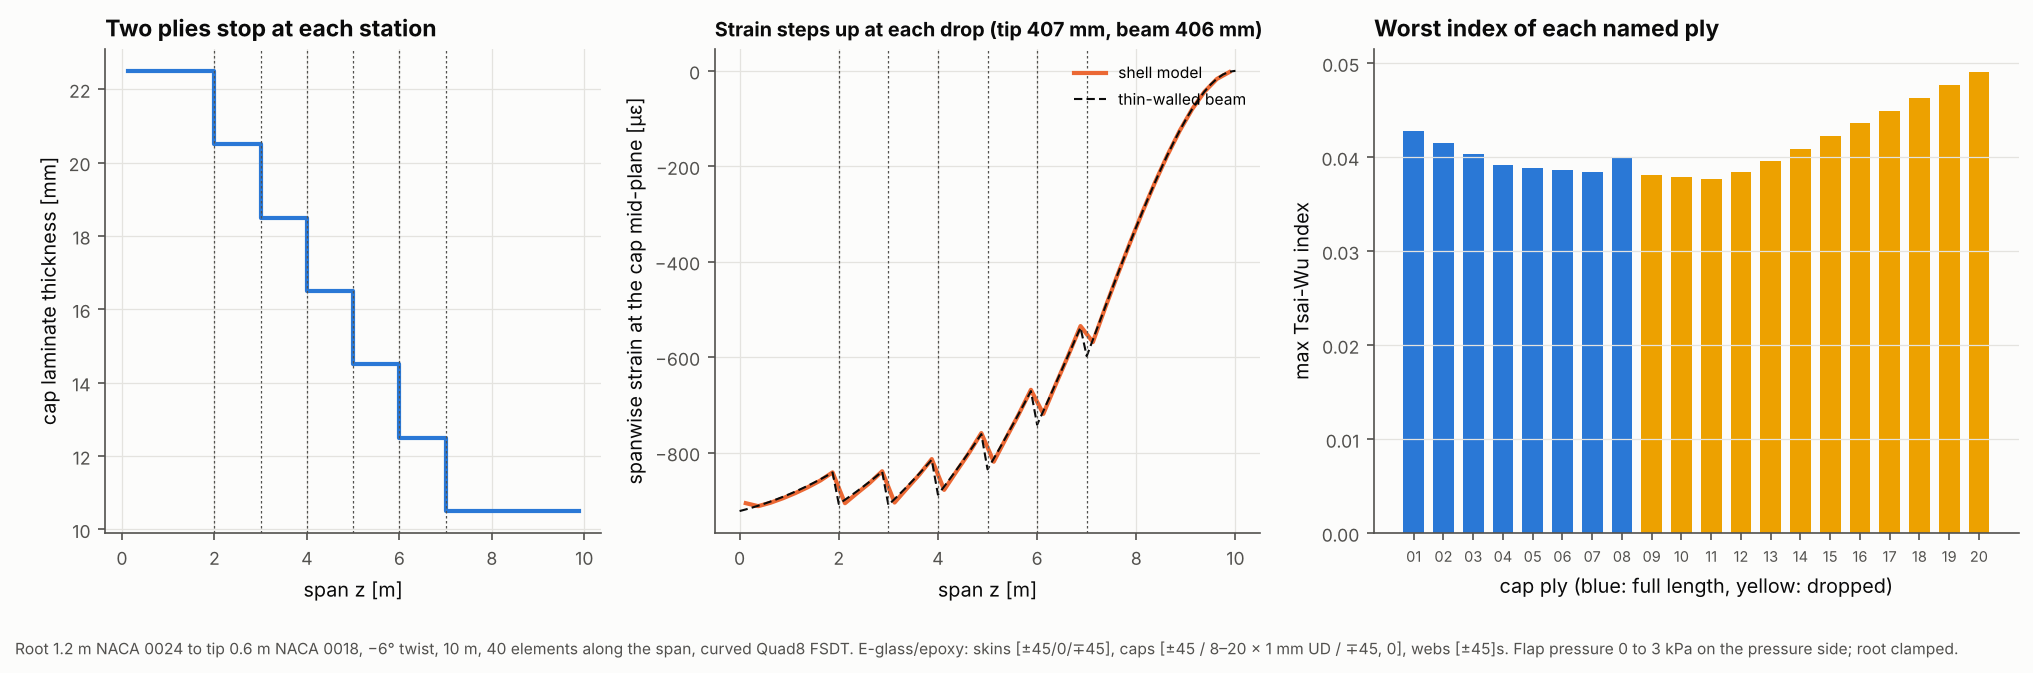
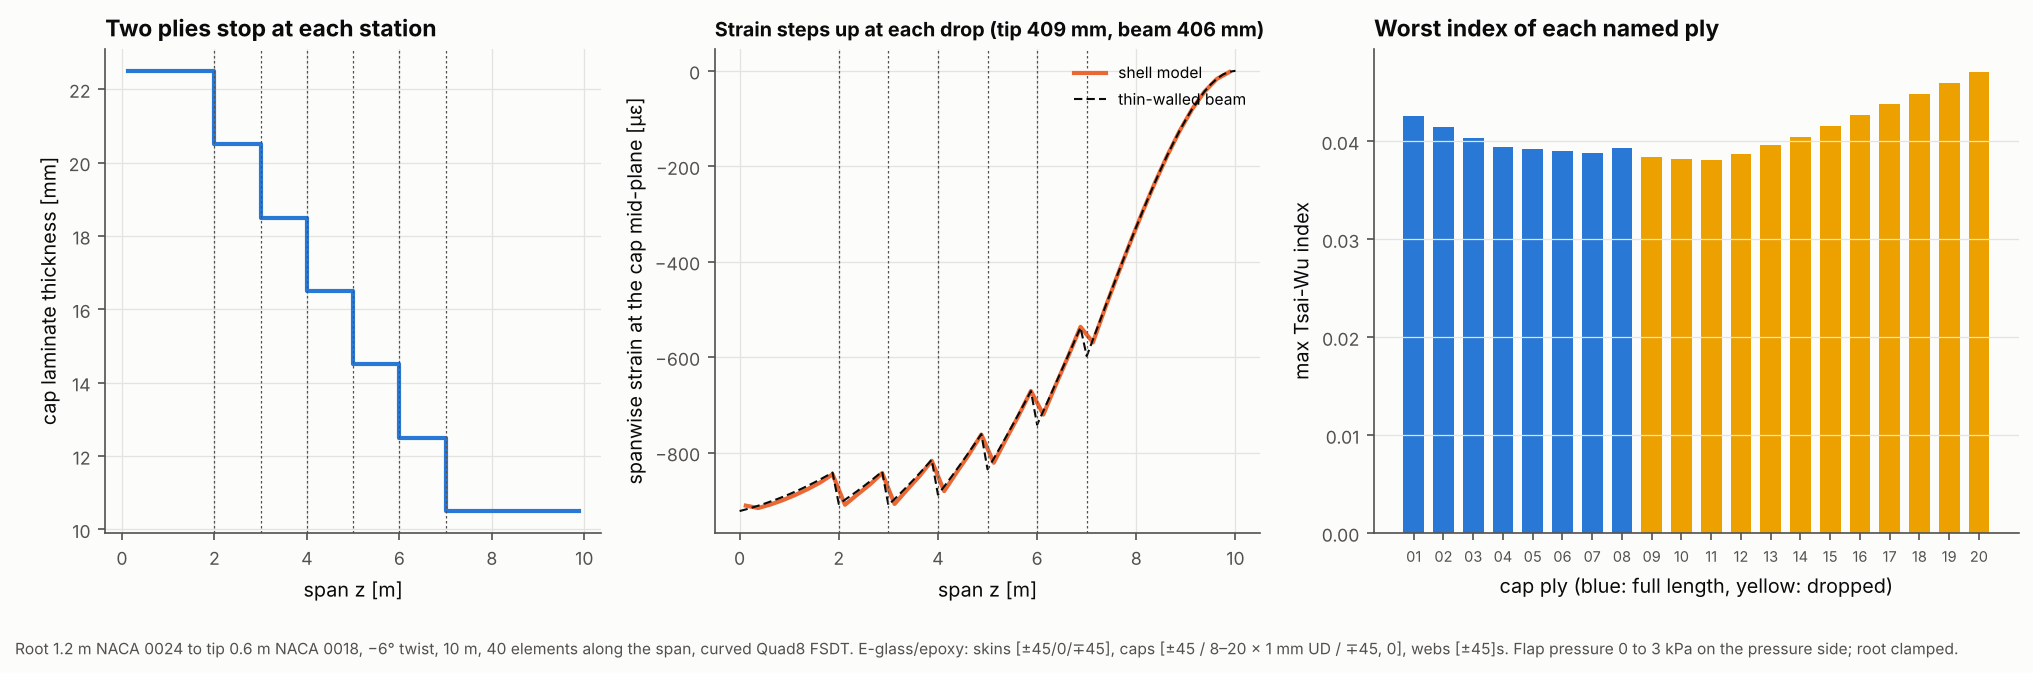
Re-run blade examples on the mid-surface default
Examples 20, 21, 23 and 25 re-run with skins on their mid-surface; READMEs
updated. Example 21 moves the blade again after its ply book. The IEA helper
merges sector edges closer than 0.3% of the chord: 5 mm slivers beside the
95 mm caps turned inside out in CalculiX's shell expansion.

diff --git a/examples/_shared/iea15mw.py b/examples/_shared/iea15mw.py
@@ -82,6 +82,11 @@ def airfoil(st):
     return Airfoil(pts, f"IEA 15 MW r = {st['r']:.1f} m")
 
 
+MERGE_CHORD = 0.003  # sector boundaries closer than this (in chords) are merged: slivers between
+# them, much narrower than the skin is thick, turn inside out when CalculiX expands
+# the mid-surface shells into bricks
+
+
 def build_segment(st, length, n_span, h_perimeter, element, tip_chord=None, twist=(0.0, 0.0), **builder_options):
     """A shell segment with the section of station ``st``, meshed on its PreComp sector boundaries.
 
@@ -99,7 +104,7 @@ def build_segment(st, length, n_span, h_perimeter, element, tip_chord=None, twis
     edges = np.unique(np.round(np.concatenate([st["upper"]["loc"], st["lower"]["loc"], [x for x, _ in webs_in]]), 6))
     bounds = [edges[0]]
     for v in edges[1:]:
-        if v - bounds[-1] > 2e-4:
+        if v - bounds[-1] > MERGE_CHORD:
             bounds.append(v)
     bounds[-1] = 1.0
 

diff --git a/examples/25_blade_calculix_crosscheck/README.md b/examples/25_blade_calculix_crosscheck/README.md
@@ -13,8 +13,8 @@ goes to both solvers, once meshed with Quad4 shells and once with curved Quad8.
 |---|---|
 | Segment | IEA 15 MW blade from r = 64.5 m to r = 84.7 m (20.2 m), chord 4.07 m to 3.27 m, published twist (1.5° to −0.4°) |
 | Section | The r = 64.5 m station from example 24: FFA-W3 blend about 27% thick, 89 mm carbon spar caps (18–40% chord), 27 mm foam-cored glass panels, 30 mm glass UD trailing-edge reinforcement, two foam-cored webs, a 56 mm flatback trailing edge closed by a web |
-| Layup | The same along the segment (the r = 64.5 m station's sectors and laminae), skins on the outer mould line |
-| Meshes | Quad4 FSDT, 40 along the span (4840 elements); curved Quad8, 20 along the span (1460 elements) |
+| Layup | The same along the segment (the r = 64.5 m station's sectors and laminae), laid inward from the outer mould line; skins meshed on their mid-surface (the default) |
+| Meshes | Quad4 FSDT, 40 along the span (4760 elements); curved Quad8, 20 along the span (1380 elements). Sector edges closer than 0.3% of the chord are merged (see below) |
 | Support | Root section clamped |
 | Loads | Suction 1.7 kPa and pressure 0.8 kPa at the root, both rising 30% to the tip (about 10 kN/m flapwise); edgewise gravity; outboard shear at the tip, 250 kN flapwise on the web nodes and 60 kN edgewise on the skin nodes |
 
@@ -54,7 +54,7 @@ Without `ccx` the script says so and stops. It takes about two minutes.
    CalculiX accepts composite shells only as S8R, so the Quad4 mesh is promoted to
    S8R with straight-sided mid-side nodes, and the curved Quad8 mesh is written
    node for node. CalculiX then expands every S8R into a 20-node brick with the
-   plies inside it, so it treats the offset skins, the 95 mm thick caps, the
+   plies inside it, so it treats the skins, the 95 mm thick caps, the
    web-to-skin joints and the flatback corners in 3D.
 
 4. **Comparing.** Section deflection and twist come from the node translations
@@ -66,25 +66,30 @@ Without `ccx` the script says so and stops. It takes about two minutes.
 
 | | native | CalculiX S8R | difference |
 |---|---|---|---|
-| Tip flapwise deflection, Quad4 mesh | 301.5 mm | 304.6 mm | −1.0% |
-| Tip edgewise deflection, Quad4 mesh | −24.3 mm | −24.4 mm | −0.4% |
-| Tip twist, Quad4 mesh | 0.801° | 0.814° | −1.6% |
-| Tip flapwise deflection, curved Quad8 mesh | 301.1 mm | 304.1 mm | −1.0% |
-| Tip twist, curved Quad8 mesh | 0.795° | 0.791° | 0.5% |
-| Flapwise displacement, every node (Quad4 mesh) | | | max 1.2% of the peak |
-| Fibre stress in the suction cap at a quarter span | | | max 5.9% of the peak |
+| Tip flapwise deflection, Quad4 mesh | 300.3 mm | 299.8 mm | 0.2% |
+| Tip edgewise deflection, Quad4 mesh | −25.2 mm | −25.2 mm | 0.0% |
+| Tip twist, Quad4 mesh | 0.793° | 0.790° | 0.4% |
+| Tip flapwise deflection, curved Quad8 mesh | 300.2 mm | 299.5 mm | 0.2% |
+| Tip twist, curved Quad8 mesh | 0.768° | 0.759° | 1.2% |
+| Flapwise displacement, every node (Quad4 mesh) | | | max 0.3% of the peak |
+| Fibre stress in the suction cap at a quarter span | | | max 5.4% of the peak |
 | σ22 and τ12 in the sandwich panel at a quarter span | | | max 1.0% of the peak |
 
-Runtimes on one core: native 20 s, CalculiX 15 s for the Quad4 model (14,600 S8R
+Runtimes on one core: native 31 s, CalculiX 25 s for the Quad4 model (14,356 S8R
 nodes after promotion).
+
+With the skins on their mid-surface, the two solvers agree more closely in
+deflection than they did with the skins on the mould line and offset (the
+earlier default: native 1.0% below CalculiX in flap deflection and 1.6% in Quad4
+twist, 1.2% of the peak over all nodes).
 
 - **Top left:** flapwise and edgewise deflection along the segment; the two
   solvers lie on top of each other for both meshes.
 - **Top right:** twist. The flap load acts away from the shear centre and the
   segment twists by 0.8° over its length; the kink near the tip is where the tip
   forces go in on the web and skin nodes (the same nodal forces in both solvers).
-  Native Quad4 and curved Quad8 agree with each other; CalculiX on the promoted
-  Quad4 mesh (straight-sided S8R) twists 3% more than on the curved mesh.
+  The Quad4 mesh twists 3–4% more than the curved Quad8 mesh in both solvers
+  (the curved mesh is twice as coarse around the section).
 - **Bottom left:** fibre stress in the carbon of both caps, about −90 MPa
   (suction side, compression) and +90 MPa at the root, falling to zero at the tip.
   The CalculiX values sit on the native curves.
@@ -107,6 +112,16 @@ coefficient on the dependent side of an equation") and which turned some
 expanded bricks inside out at the flatback corners. Body loads are now written as
 `*DLOAD, GRAV`, which CalculiX integrates over the expanded bricks, so the
 offsets and ply densities are included directly.
+
+Moving the skins to their mid-surface exposed a limit of CalculiX's shell
+expansion. The PreComp sectors leave a few slivers, elements 5 mm wide at the
+spar-cap edges where the sector edges on the two surfaces nearly coincide. Next
+to a 95 mm cap whose mid-surface steps inwards, CalculiX turned their expanded
+bricks inside out ("nonpositive jacobian"). `_shared/iea15mw.py` now merges
+sector edges closer than 0.3% of the chord (12 mm here), which removes them. Many
+small residual offsets left by the mid-surface smoothing also made CalculiX run out
+of expansion nodes ("increase nk_"); `BladeMesh.to_mid_surface` now drops
+residual offsets under 5% of the laminate thickness.
 
 Clamped shell edges keep their rotation constraints. Without them CalculiX fixes
 only the mid-surface node of each expanded shell node and the edge becomes a

diff --git a/examples/26_mid_surface_meshing/README.md b/examples/26_mid_surface_meshing/README.md
@@ -1,13 +1,14 @@
 # 26 · Mould line with offsets, or mid-surface: two ways to mesh blade skins
 
-`BladeBuilder` meshes the skins on the outer mould line (OML) by default and
-offsets each laminate inward by half its thickness, as the laminate grows from the
-mould. Example 24 found that flat shells (Quad4, flat Quad8) then lose torsional
-stiffness in thick closed sections. `mesh_surface="mid"` is the other way: the skin
-nodes move onto the laminates' mid-surface and the offsets go. This example runs
+A blade skin is laid up inward from the outer mould line (OML). There are two ways
+to mesh it. `mesh_surface="outer"` keeps the nodes on the mould line and offsets
+each laminate inward by half its thickness. Flat shells (Quad4, flat Quad8) then
+lose torsional stiffness in thick closed sections. `mesh_surface="mid"` moves the
+skin nodes onto the laminates' mid-surface and the offsets go. This example runs
 both on a thick tube with a closed-form answer, and on the six IEA 15 MW stations of
 example 24 against PreComp and the published data. Each case runs with Quad4, flat
-Quad8 and curved Quad8.
+Quad8 and curved Quad8. What it found made the mid-surface the `BladeBuilder`
+default.
 
 ![A section meshed on the mould line and on the mid-surface, with close-ups of a spar-cap edge and the trailing edge](figures/mid_surface_section.png)
 
@@ -18,15 +19,16 @@ Quad8 and curved Quad8.
 ## How the mid-surface is made
 
 ```python
-blade = BladeBuilder(stations, regions, webs, n_span=32, mesh_surface="mid").build(laminates, FSDTModel())
+blade = BladeBuilder(stations, regions, webs, n_span=32).build(laminates, FSDTModel())  # mesh_surface="mid"
 
-# or after a Layup with ply drops, from a mould-line mesh:
+# after a Layup with ply drops (laid from the mould line), move it again:
 Layup(plies, reference="top").apply(blade.mesh, blade.element_sets, element_ids=blade.elements("spar_cap"))
 blade = blade.to_mid_surface()
 ```
 
-1. **Shift.** Every skin element knows where its plies are: its laminate offset
-   (−t/2 for a skin on the mould line). The shift of each skin node is the
+1. **Shift.** The builder first meshes the mould line, where every skin element
+   knows where its plies are: its laminate offset (−t/2 for a skin on the mould
+   line). The shift of each skin node is the
    area-weighted mean offset of the skin elements around it.
 2. **Smoothing.** The shifts are averaged along the skin with a hat kernel over
    paths shorter than `mid_surface_smoothing`. By default that is two of the
@@ -38,7 +40,11 @@ blade = blade.to_mid_surface()
    in their planes.
 4. **Offsets.** Each element keeps whatever offset still separates its plies from
    the moved surface. That is zero away from thickness changes, and small in the
-   blends, so every ply stays where it was through the thickness.
+   blends, so every ply stays where it was through the thickness. Residuals under
+   5% of the thickness are dropped: they only round off the smoothing, and many
+   slightly different offsets make CalculiX's shell expansion fail (example 25).
+   After a `Layup`, `to_mid_surface()` repeats steps 1–5 from the stored mould-line
+   mesh, with the new plies.
 5. **Webs.** The web nodes are re-spaced between their two joints, so the webs run
    between the skins' mid-surfaces.
 
@@ -136,7 +142,7 @@ GJ / PreComp for each element:
 
 ## Which to use
 
-| | mould line + offset (default) | mid-surface |
+| | mould line + offset | mid-surface (default) |
 |---|---|---|
 | Torsion of thick sections, flat elements | 20–35% low | exact |
 | Torsion, curved Quad8 | 2–5% low at the root | exact |
@@ -145,15 +151,15 @@ GJ / PreComp for each element:
 | Skin stresses at the mould surface | at the reference surface | through the ply stack as usual |
 | Cost | | the same mesh |
 
-Use the mid-surface for section properties and torsion, above all with Quad4. Keep
-the mould line where the outer geometry matters, for example when comparing with a
-CAD surface. To match PreComp like for like (example 24), the mould line is the
-closer of the two, because PreComp makes the same thin-wall area assumption.
+The mid-surface is the default: it is right for section properties and torsion
+with every element. Choose `mesh_surface="outer"` where the outer geometry matters,
+for example when comparing with a CAD surface, or to match PreComp's EA and mass
+exactly, since PreComp makes the same mould-line area assumption.
 
 ## Things to try
 
 - Run the stations with `mid_surface_smoothing=0.05` to see the cap edges sharpen.
-- Apply a spar-cap ply-drop `Layup` (example 21) to a mould-line blade, then call
-  `blade.to_mid_surface()`. The cap's mid-surface steps up at each drop.
+- Apply a spar-cap ply-drop `Layup` (example 21), then call
+  `blade = blade.to_mid_surface()`. The cap's mid-surface steps up at each drop.
 - Refine flat Quad8 around the section (`ELEMENTS["quad8"]`) and watch it close on
   curved Quad8.

diff --git a/examples/20_blade_beam_properties/README.md b/examples/20_blade_beam_properties/README.md
@@ -81,34 +81,43 @@ At θ = 0 (all about the pitch axis, except EI edge about the tension centre):
 
 | | Shell model | Thin-walled beam | PreComp |
 |---|---|---|---|
-| EA [N] | 9.798e8 | 9.798e8 | 9.792e8 |
-| EI flap [N m²] | 1.158e7 | 1.158e7 | 1.157e7 |
-| EI edge [N m²] | 2.136e7 | 2.136e7 | 2.126e7 |
-| GJ [N m²] | 1.700e6 | 1.727e6 | 1.109e6 |
-| Tension centre aft of the pitch axis | 51.0 mm | 51.0 mm | 50.9 mm |
+| EA [N] | 9.763e8 | 9.798e8 | 9.792e8 |
+| EI flap [N m²] | 1.152e7 | 1.158e7 | 1.157e7 |
+| EI edge [N m²] | 2.122e7 | 2.136e7 | 2.126e7 |
+| GJ [N m²] | 1.730e6 | 1.727e6 | 1.109e6 |
+| Tension centre aft of the pitch axis | 51.1 mm | 51.0 mm | 50.9 mm |
 
 Over the cap-angle sweep:
 
 | θ | EI flap: shell / thin wall / PreComp [N m²] | GJ: shell / thin wall / PreComp [N m²] | Flap-twist coupling: shell / thin wall / PreComp |
 |---|---|---|---|
-| 0° | 1.158e7 / 1.158e7 / 1.157e7 | 1.700e6 / 1.727e6 / 1.109e6 | 0 / 0 / 0 |
-| 10° | 8.22e6 / 8.23e6 / 1.07e7 | 1.95e6 / 1.97e6 / 1.16e6 | −0.329 / −0.327 / −0.159 |
-| 20° | 4.52e6 / 4.53e6 / 7.82e6 | 2.16e6 / 2.18e6 / 1.19e6 | −0.401 / −0.401 / −0.159 |
-| 30° | 2.74e6 / 2.74e6 / 4.49e6 | 2.17e6 / 2.20e6 / 1.20e6 | −0.365 / −0.366 / −0.149 |
+| 0° | 1.152e7 / 1.158e7 / 1.157e7 | 1.730e6 / 1.727e6 / 1.109e6 | 0 / 0 / 0 |
+| 10° | 8.21e6 / 8.23e6 / 1.07e7 | 1.98e6 / 1.97e6 / 1.16e6 | −0.332 / −0.327 / −0.159 |
+| 20° | 4.52e6 / 4.53e6 / 7.82e6 | 2.20e6 / 2.18e6 / 1.19e6 | −0.405 / −0.401 / −0.159 |
+| 30° | 2.74e6 / 2.74e6 / 4.49e6 | 2.22e6 / 2.20e6 / 1.20e6 | −0.369 / −0.366 / −0.149 |
+
+The skins are meshed on their mid-surface (the `BladeBuilder` default). Thin-wall
+theory and PreComp take each wall's length on the outer mould line, which is a
+little longer than the mid-wall length, so they read EA and EI 0.4–0.7% above the
+shell model at 0°. With the skins left on the mould line and offset
+(`mesh_surface="outer"`), the shell model counts the same mould-line length and
+matches thin-wall EA and EI exactly, but its curved Quad8 facets then lose 1.6% of
+GJ (example 26).
 
 - **Left:** the section with its centres. The tension centre (51 mm aft of the
   pitch axis) sits where the carbon caps put it, the mass centre further aft
   (129 mm), pulled back by the long trailing-edge skin. The section weighs
-  17.5 kg/m. The shear centre lands within a millimetre of the pitch axis.
+  17.4 kg/m. The shear centre lands within a millimetre of the pitch axis.
 - **Middle:** turning the cap fibres costs axial and flap stiffness fast (EI
   flap falls to 0.39 of its 0° value at 20°) and gains torsional stiffness (GJ
   rises by about 27%). The shell model and thin-walled beam theory agree within
-  0.3% in EA and EI at every angle, and within 1.5% in GJ.
+  0.7% in EA and EI at every angle (the mould-line length above), and within 1% in
+  GJ.
 - **Right:** the bend-twist coupling coefficient S₁₄/√(S₁₁S₄₄). With +θ on one
   cap and −θ on the other, flap bending shears the two caps in opposite
   directions, and the closed section turns that into twist. The coupling peaks at
   about −0.40 near 20° and falls beyond as the caps lose stiffness. Shell and
-  thin-wall theory agree to the third decimal.
+  thin-wall theory agree within 1.5%.
 - **PreComp agrees at 0° in EA, EI and the tension centre (within 0.5%) but not
   in torsion or coupling.** Its GJ is 35% below the other two, and with off-axis
   caps it keeps far more flap stiffness (0.68 of the 0° value at 20°, against

diff --git a/examples/21_spar_cap_ply_drops/README.md b/examples/21_spar_cap_ply_drops/README.md
@@ -41,7 +41,8 @@ It takes about two and a half minutes, most of it writing the ply-by-ply VTK fil
    ```
 
    Skin normals point outwards and the skin laminates grow inwards from the outer
-   mould line (`skin_reference="outer"`). The 0° direction follows the span.
+   mould line (`skin_reference="outer"`); the skins are then meshed on their
+   mid-surface (the default). The 0° direction follows the span.
 
 2. **The ply book.** Each `PlyDefinition` names a ply, its material, thickness and
    angle, the element set it lies on, and optionally a region function that cuts
@@ -51,8 +52,14 @@ It takes about two and a half minutes, most of it writing the ply-by-ply VTK fil
    ```python
    PlyDefinition("cap_12", glass, 1.0e-3, 0.0, elements="spar_cap", region=lambda x: x[2] < 4.0)
    layup = Layup(plies, name="cap", reference="top")
-   layup.apply(mesh, blade.element_sets, element_ids=blade.elements("spar_cap"))
+   layup.apply(blade.mesh, blade.element_sets, element_ids=blade.elements("spar_cap"))
+   blade = blade.to_mid_surface()
    ```
+
+   The ply book is laid from the mould line, as in the mould. `to_mid_surface()`
+   then moves the blade again from its mould line with the new plies, so the
+   cap's mid-surface steps inwards at every drop (smoothed over two cap
+   thicknesses), and the plies keep their place through the thickness.
 
 3. **Checking the schedule.** `layup.drops(...)` lists every element edge where a
    ply stops (144 here, both caps), `check_drops(max_per_step=2)` flags edges where
@@ -78,20 +85,23 @@ It takes about two and a half minutes, most of it writing the ply-by-ply VTK fil
 
 | | Shell model | Thin-walled beam |
 |---|---|---|
-| Tip flap deflection | 406.9 mm | 406.3 mm |
-| Cap strain at z = 1.0 m | −890 µε | −887 µε |
-| Cap strain at z = 4.5 m | −820 µε | −818 µε |
+| Tip flap deflection | 409.0 mm | 406.3 mm |
+| Cap strain at z = 1.0 m | −894 µε | −887 µε |
+| Cap strain at z = 4.5 m | −823 µε | −818 µε |
 | Cap strain at z = 8.5 m | −206 µε | −205 µε |
+
+The shell model is 0.5–0.8% softer than the beam: the beam's walls have their
+mould-line length, the shell's their mid-wall length (example 20).
 
 - **Left:** the cap steps from 22.5 mm to 10.5 mm in six 2 mm steps.
 - **Middle:** the spanwise strain at the mid-plane of the suction-side cap,
   against the beam. Between drops the compressive strain falls towards the tip
   with the bending moment; at each drop the cap loses two plies and the strain
-  steps up by about 8%. Shell and beam agree within 0.5% everywhere except right
+  steps up by about 8%. Shell and beam agree within 0.8% everywhere except right
   at each drop, where the shell spreads the step over one element and the beam
   jumps. (The strain is taken at the cap's own mid-plane. The shell reference
-  surface is the outer face, and the mid-plane steps inwards at every drop, so
-  strains at the reference surface mix in local bending from that step.)
+  surface follows that mid-plane, smoothed across the drops, so near a drop the
+  two are a little apart.)
 - **Right:** the worst Tsai-Wu index of each cap ply. The full-length plies peak
   at the root. The dropped plies that run furthest out score highest, because
   the cap they end in is thinner for its bending moment. All are low at this load

diff --git a/examples/23_blade_segment/README.md b/examples/23_blade_segment/README.md
@@ -76,15 +76,16 @@ It takes about two minutes, most of it writing the ply-by-ply VTK file.
   wide between the aft web and the trailing edge, bulge under the surface
   pressures by about 2 mm, and the trailing edge drops by 3 mm. A beam model
   assumes none of this.
-- **Middle:** flap deflection reaches 457 mm in the shell and 443 mm in the beam
-  (3% apart), edge deflection 11.7 mm and 10.7 mm. The beam leaves out shear
+- **Middle:** flap deflection reaches 457 mm in the shell and 444 mm in the beam
+  (3% apart), edge deflection 11.6 mm and 10.7 mm. The beam leaves out shear
   deformation of the webs and the panel distortion, so it is slightly stiffer. Tip
-  twist is 0.56° in the shell and 0.63° in the beam: the clamp's warping restraint
-  stiffens the shell in torsion near the root.
+  twist is 0.53° in the shell and 0.61° in the beam (13% apart): the clamp's
+  warping restraint stiffens the shell in torsion near the root. (On the mould
+  line with offset skins, the earlier default, the two were 11% apart.)
 - **Right:** the worst Tsai-Wu index beyond the root boundary layer. The spar caps
-  (0.37) and webs (0.36) carry the most; the panels are lower (0.26 to 0.28) and
+  (0.36) and webs (0.35) carry the most; the panels are lower (0.26 to 0.28) and
   the foam cores lower still (0.04 to 0.06). In the first chord from the clamp the
-  indices are 1.3 to 2.3 times higher (0.64 in the LE panel faces).
+  indices are 1.3 to 2.3 times higher (0.63 in the LE panel faces).
 
 Open `vtk/blade_segment.vtu` in ParaView for the deformed shape and stress
 resultants, and `vtk/blade_segment_plies.vtu` for each ply's failure index.
